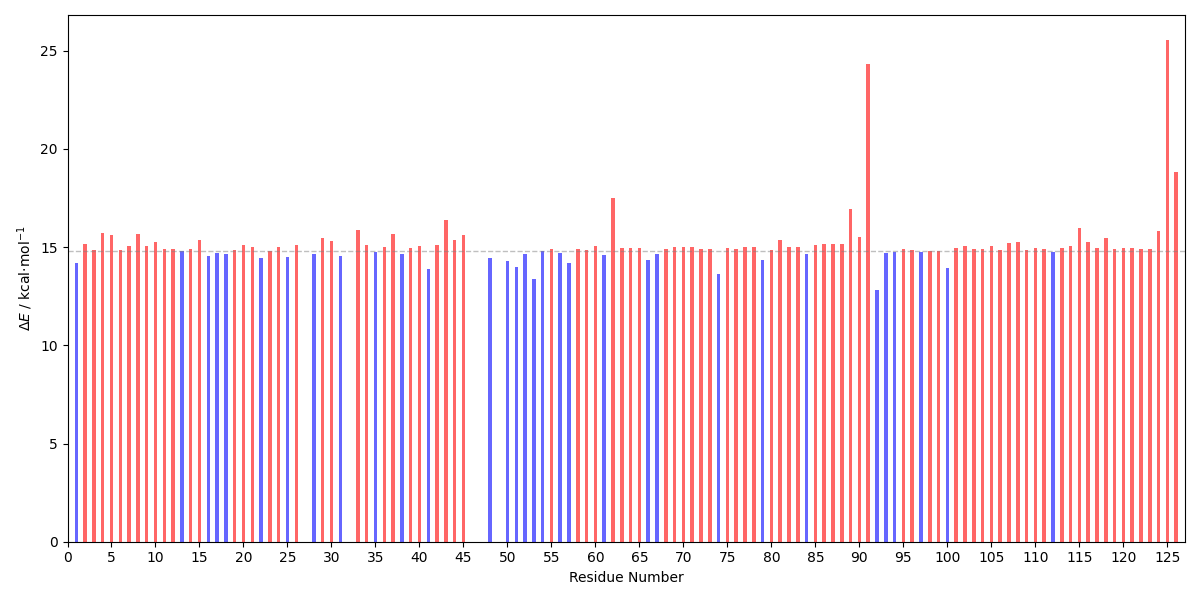
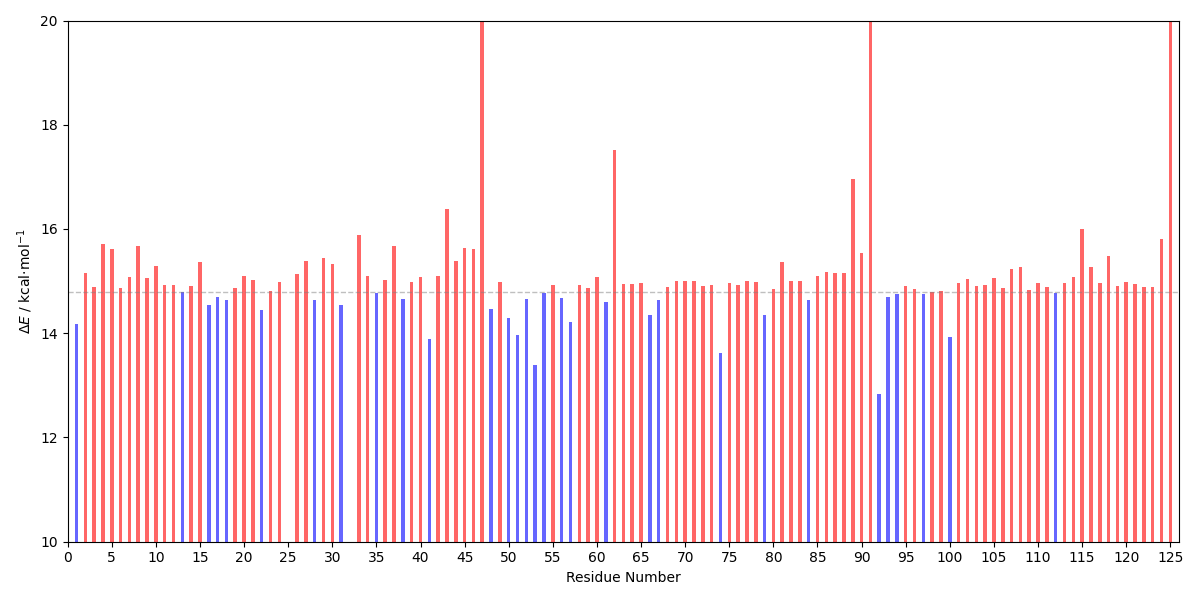
Add files via upload

diff --git a/residue_deletion/E_diff_dist_plot.py b/residue_deletion/E_diff_dist_plot.py
@@ -111,6 +111,7 @@ def compute_center_of_geometry(pdb_file, residue_file, atom1_index, atom2_index,
     plt.axvline(x=0, color='grey', linestyle='--', linewidth=1, alpha=0.5)
     plt.ylabel('Δ$E$ / kcal·mol$^{-1}$')
     plt.xlabel('d$_1$-d$_2$ / Å')
+    plt.ylim(10,20)
     plt.savefig("marker_plot.png", format='png')
     plt.show()
 

diff --git a/residue_deletion/E_diff_bar_plot.py b/residue_deletion/E_diff_bar_plot.py
@@ -32,6 +32,7 @@ def plot_data(labels, values):
     x_ticks = np.arange(0, max_label + 1, 5)  # Set x-ticks at intervals of 5
     plt.xticks(x_ticks)  
     plt.xlim(0, max_label+1)  
+    plt.ylim(10, 20)
 
     plt.xlabel('Residue Number')
     plt.ylabel('Δ$E$ / kcal·mol$^{-1}$')
